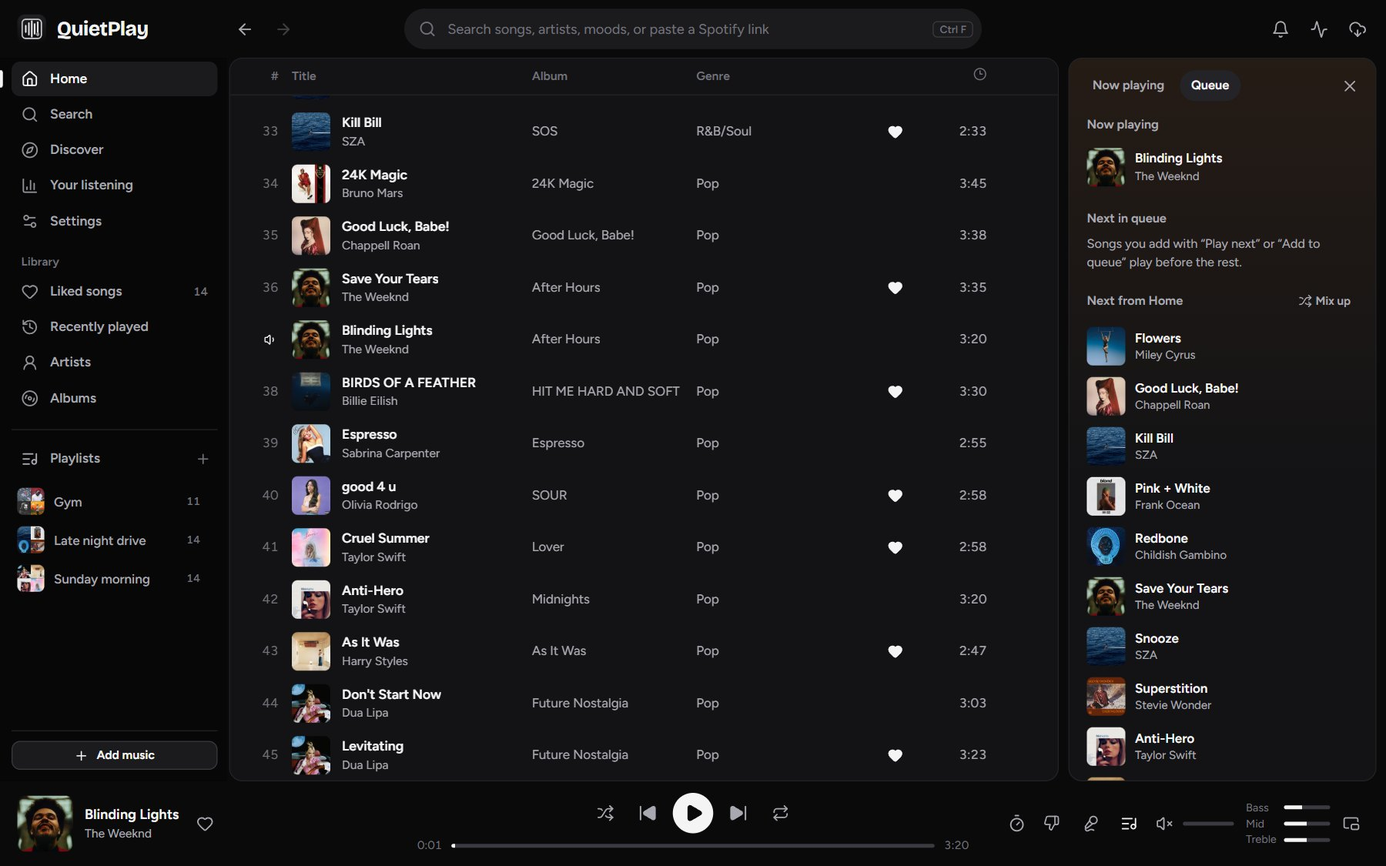
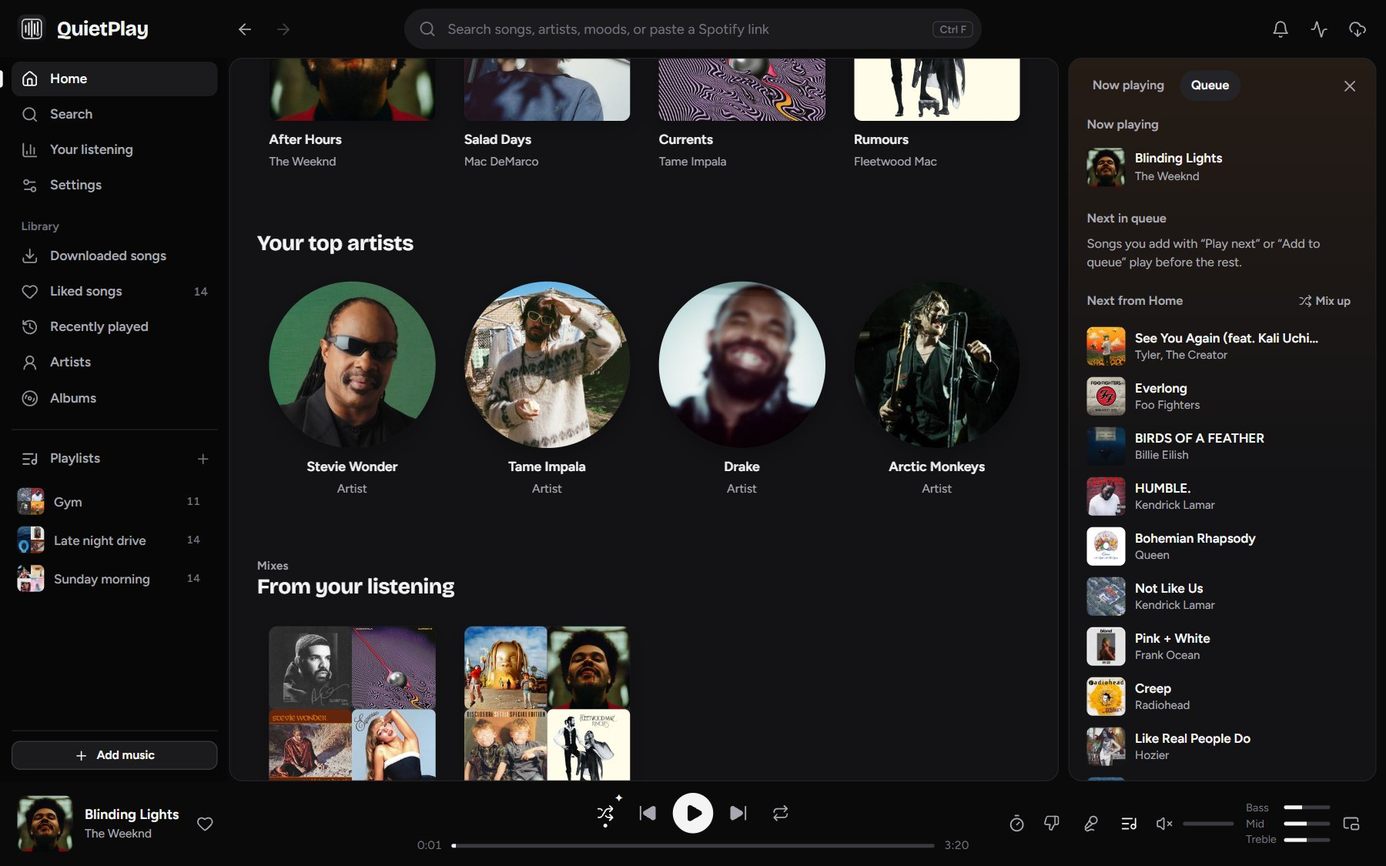
QuietPlay 2.2.31: one Home with far more music, Downloaded songs, Smart shuffle

diff --git a/USER_GUIDE.md b/USER_GUIDE.md
@@ -2,14 +2,14 @@
 
 [QuietPlay](README.md) | [FAQ](FAQ.md) | [Downloads](https://github.com/cooperwwwwww/QuietPlay-downloads/releases)
 
-This guide is for **QuietPlay 2.2.30** on Windows. Sections marked in development
+This guide is for **QuietPlay 2.2.31** on Windows. Sections marked in development
 describe upcoming features, not the current download.
 
 ## Jump to a Topic
 
 [Install and open](#install-and-open) · [Your data](#your-data-on-this-pc) ·
 [Add music](#add-existing-music) · [Find and play](#find-and-play) ·
-[Discover and radio](#discover-radio-and-autoplay) · [Online music](#online-music-artists-and-charts) · [Taste from other apps](#bring-your-taste-from-other-apps) · [Your listening](#your-listening) ·
+[Mixes and radio](#mixes-radio-and-autoplay) · [Online music](#online-music-artists-and-charts) · [Taste from other apps](#bring-your-taste-from-other-apps) · [Your listening](#your-listening) ·
 [Playlists](#playlists) · [Library care](#library-care) · [Lyrics](#lyrics) ·
 [Search and download](#search-and-download-music) · [Navidrome](#navidrome-add-on) · [Audio and mini player](#audio-and-mini-player) ·
 [OBS](#obs) · [Settings](#settings) · [Shortcuts](#keyboard-shortcuts) · [Updates and help](#updates-and-help)
@@ -63,8 +63,12 @@ Untagged files named like `Artist - Title.mp3` are read as artist and title.
 
 ## Find and Play
 
-- **Home** (from 2.2.27) works like Spotify's. It starts with a greeting and four chips: **All**,
-  **Music for you**, **New music** and **Your songs** (your full song list). Below are quick-access tiles
+- **Home** (from 2.2.27) works like Spotify's. From 2.2.31 it also has everything that was on Discover
+  (your listening stats, every mix and your library's genres) and about ten times more recommendations:
+  playlists with each of your top artists, for your genres, for 20 moods and activities and for every
+  decade, the most popular playlists, and a radio of new songs for each of your top artists. Rows further
+  down load as you scroll to them. It starts with a greeting and filters: **All**, **Made for you**,
+  **Playlists** and **New music**, plus a **Downloaded songs** button. Below are quick-access tiles
   for Liked Songs, your playlists and mixes (point at one and press play), then rows of cards:
   **Made for you**, **Recommended for today** (about 100 songs you don't have yet), **Jump back in**,
   **Your top artists**, **More from artists you love**, **Because you listen to…**, **More like…**,
@@ -72,13 +76,12 @@ Untagged files named like `Artist - Title.mp3` are read as artist and title.
   playlists**, **Top albums**, **Popular artists** and **Your favorite albums**. Click a song card to hear
   a preview, and use the arrows to see more of a row. The personal rows are prepared in the background
   after QuietPlay opens and refreshed every few hours. QuietPlay remembers the chip you picked.
-- **Made for you** on Discover still has **Mixes**, **New songs** and **Playlists**.
-  Click a recommended song to preview it, or use its download button. Open a
-  recommended playlist to see every song, preview, download a song, or
-  **Download & save** the full mix. **See all** opens Discover, and the refresh
-  button fetches new picks. Recommendations stay loaded when you switch tabs.
-- **Your songs** below the box lists your whole library with **Play** and
-  **Shuffle**. Filter by genre and sort by recently added, title, artist and more.
+- Click a recommended song to preview it. Open a recommended playlist (marked **New**) to see every song,
+  preview, download a song, or **Download & save** the full mix. Recommendations stay loaded when you
+  switch tabs.
+- **Downloaded songs** (from 2.2.31, in the sidebar, or **Alt+D**) lists every song you've downloaded with
+  **Play** and **Shuffle**. Filter by genre and sort by recently added, title, artist and more. Opening a
+  genre under **Your genres** on Home shows its songs here.
 - **Search** (Ctrl+F or the search bar) finds songs, artists, albums and
   playlists, ranks the best matches first, ignores accents and punctuation,
   and shows similar spellings when nothing matches exactly.
@@ -99,7 +102,7 @@ Untagged files named like `Artist - Title.mp3` are read as artist and title.
   for genres, a few artists, how many new artists to mix in and whether to skip explicit songs (skip any step), then Home shows songs
   and playlists to start with, each with **Save & download**. Retake the quiz
   from the **Search** page, or hide Starter picks with the **×** on Home.
-- Recommended playlists on Home and Discover have **Save & download**, which
+- Recommended playlists on Home have **Save & download**, which
   adds the playlist to your playlists and downloads every song into it.
 - **Ctrl+K** opens quick play: type and press Enter to play a song or run a command.
 - Right-click any song for Play next, Add to queue, Add to playlist, Song
@@ -109,12 +112,12 @@ Untagged files named like `Artist - Title.mp3` are read as artist and title.
 - **Recently played** has a Songs view and a **History** view of every play by
   day, showing what you finished and what you skipped.
 
-## Discover, Radio and Autoplay
+## Mixes, Radio and Autoplay
 
 Your listening signals and rankings are calculated on your PC. Optional catalog
 lookups supply songs and related artists for online recommendations.
 
-- **Discover** has Made for you, a time-of-day mix, On repeat, Because you
+- **Home** (Discover until 2.2.31) has Made for you, a time-of-day mix, On repeat, Because you
   played…, Forgotten favorites, Deep cuts, New to you, Never skipped, Recently
   added, genre mixes and your top artist's essentials. Mixes refresh daily.
   Save any mix as a playlist.
@@ -133,19 +136,19 @@ lookups supply songs and related artists for online recommendations.
 - **Shuffle** plays recently heard songs last and avoids the same artist twice in a row. From 2.2.29
   shuffle and autoplay don't pick a song you heard in the last few hours, already played this session or
   skipped this session, while there's something else to play.
-- **Smart shuffle** (from 2.2.29): press the shuffle button a second time (Off → Shuffle → Smart shuffle,
-  marked ✦; a third press turns it off). It learns as you listen: a song you skip doesn't come back this
+- **Smart shuffle** (from 2.2.29): from 2.2.31 it is the only shuffle and it's on by default; the shuffle
+  button (marked ✦) and **S** turn it on and off, and off stays off. It learns as you listen: a song you skip doesn't come back this
   session, each skip makes that genre and artist less likely for about an hour and each song you finish
   makes them more likely again, what's coming up reorders when you skip, and after every few songs it
   mixes in a song from your library that fits. Albums and playlists played in order are not changed.
 - **Dislike** keeps a song out of shuffle, autoplay and mixes. **Often skipped**
-  in Discover lists songs you keep skipping.
+  on Home lists songs you keep skipping.
 
 ### Personalized Playlists
 
 Available in QuietPlay **2.2.1 and later**; also on Home since **2.2.3**.
 
-1. Open **Home → Made for you → Playlists for you**, or **Discover → Playlists picked for you**. QuietPlay ranks recommendations
+1. Open **Home → Made for you → Playlists for you**, or the **Playlists** filter on Home. QuietPlay ranks recommendations
    from your plays, completed listens, likes, recent listening, skips and
    dislikes, then combines them with related-artist catalog results.
 2. Choose a playlist to see its complete list of **50–60 different songs**.
@@ -424,7 +427,7 @@ Showing a song title doesn't grant permission to broadcast the recording.
 ### Overlay Customization (Unreleased)
 
 The following controls are implemented in the development build and are **not
-in the current 2.2.30 installer**. The existing download still has the basic
+in the current 2.2.31 installer**. The existing download still has the basic
 overlay options in Streaming settings.
 
 Open **Settings → Streaming → Overlay appearance** in the upcoming build:
@@ -461,7 +464,7 @@ Integrations, Updates and Advanced (Gaming Mode, caches, diagnostics).
 | Left / Right | Back or ahead 5 seconds |
 | Ctrl+Up / Ctrl+Down | Volume |
 | L | Like the playing song |
-| S | Shuffle, then Smart shuffle, then off |
+| S | Smart shuffle on or off |
 | R | Repeat all, repeat this song, off |
 | M | Mute or unmute |
 | Ctrl+K | Quick play |
@@ -509,18 +512,18 @@ Backups are retained for the two most recent update transactions.
 The release signature is separate from Windows Authenticode; QuietPlay is still
 not Windows code-signed, and Windows security warnings and blocks still apply.
 
-### Updating to 2.2.30
+### Updating to 2.2.31
 
-Use the update screen above. From **2.2.28 or 2.2.29** the download is about **8.2 MB**, from **2.2.24 to 2.2.27** about **25.2 MB**,
+Use the update screen above. From **2.2.28 to 2.2.30** the download is about **8.2 MB**, from **2.2.24 to 2.2.27** about **25.2 MB**,
 and from **2.2.2 to 2.2.23** about **40.4 MB**.
 A bar shows the check, the download, verification and, in the updater window, each file as it is installed. It reuses the unchanged runtime
 files, so no full installer is needed for a healthy installation.
 
 ### First Upgrade From an Older Version
 
-- **2.2.0:** download the official **2.2.30 Windows Setup** and run it over the
+- **2.2.0:** download the official **2.2.31 Windows Setup** and run it over the
   existing installation once. Do not uninstall first. This enables file updates.
-- **2.2.1:** download **QuietPlayUpdater.exe** from the official **2.2.30 release**,
+- **2.2.1:** download **QuietPlayUpdater.exe** from the official **2.2.31 release**,
   run it, choose **Download changed files**, then **Update and restart**. This
   transfers about 40 MB instead of the full setup. Full setup is also available.
 

diff --git a/README.md b/README.md
@@ -8,9 +8,9 @@
 
 No account. No subscription. Nothing you play leaves your computer.
 
-<a id="get-quietplay"></a><a href="https://github.com/cooperwwwwww/QuietPlay-downloads/releases/download/v2.2.30/QuietPlay-2.2.30-Windows-Setup.exe"><img src="assets/download-windows.svg" alt="Download QuietPlay 2.2.30 for Windows" width="340"></a>
+<a id="get-quietplay"></a><a href="https://github.com/cooperwwwwww/QuietPlay-downloads/releases/download/v2.2.31/QuietPlay-2.2.31-Windows-Setup.exe"><img src="assets/download-windows.svg" alt="Download QuietPlay 2.2.31 for Windows" width="340"></a>
 
-Version 2.2.30 · [What's new](#new-in-2230) · [Help](FAQ.md) · [Report a problem](https://github.com/cooperwwwwww/QuietPlay-downloads/issues/new?template=bug_report.yml)
+Version 2.2.31 · [What's new](#new-in-2231) · [Help](FAQ.md) · [Report a problem](https://github.com/cooperwwwwww/QuietPlay-downloads/issues/new?template=bug_report.yml)
 
 </div>
 
@@ -18,7 +18,7 @@ Version 2.2.30 · [What's new](#new-in-2230) · [Help](FAQ.md) · [Report a prob
 
 <a id="install-quietplay"></a>
 
-1. **Click the button above.** Your browser downloads `QuietPlay-2.2.30-Windows-Setup.exe`.
+1. **Click the button above.** Your browser downloads `QuietPlay-2.2.31-Windows-Setup.exe`.
 2. **Open the file.** If Windows says *"Windows protected your PC"*, choose **More info**, check the
    file name, then **Run anyway**. This shows up because QuietPlay is new and not code-signed yet;
    [why this happens](#windows-security-notice).
@@ -33,14 +33,14 @@ the app. One click, and your music, playlists and settings stay in place.
 | Your music, mixes and recommendations | Moods made from your library |
 | --- | --- |
 | ![Home rows: Because you listen to, with songs by similar artists](assets/quietplay-home-playlists.jpg) | ![The Party mood: your songs that fit, with editors' playlists and new songs](assets/quietplay-mood.jpg) |
-| **Discover new music** | **Full playlists you can save and download** |
-| ![Discover: playlists picked from what you play](assets/quietplay-discover.jpg) | ![A 60-song recommended playlist with previews and Download and save](assets/quietplay-playlist.jpg) |
+| **More playlists than ever on Home** | **Full playlists you can save and download** |
+| ![Home: playlists with your top artists, for your genres, moods and decades](assets/quietplay-discover.jpg) | ![A 60-song recommended playlist with previews and Download and save](assets/quietplay-playlist.jpg) |
 | **Your listening** | **Search, moods and quick picks** |
 | ![Your listening: time, top songs and top artists](assets/quietplay-stats.jpg) | ![Search page with moods and quick picks](assets/quietplay-search.jpg) |
 | **Artist pages with a bio** | **Charts and new music** |
 | ![An artist page: popular songs, discography and Follow](assets/quietplay-artist.jpg) | ![Charts: New and notable and the Top 50](assets/quietplay-charts.jpg) |
 
-*Screenshots of QuietPlay 2.2.30 with a demo library of well-known songs.*
+*Screenshots of QuietPlay 2.2.31 with a demo library of well-known songs.*
 
 ## What it does
 
@@ -61,16 +61,17 @@ the app. One click, and your music, playlists and settings stay in place.
 
 Only download music you have permission to save.
 
-## New in 2.2.30
+## New in 2.2.31
 
-- **A better Up next:** long names no longer push it past the panel; right-click a song for its menu,
-  remove one with **×**, see song lengths, and open the full queue. Smart shuffle marks the songs it
-  added and shows what it's playing less of.
-- **New keys:** **S** shuffle and Smart shuffle, **R** repeat, **M** mute.
+- **Home and Discover are one page,** with about ten times more to explore: playlists for your top
+  artists, your genres, moods and every decade, and a radio of new songs for each of your top artists.
+  [How to](USER_GUIDE.md#find-and-play)
+- **Downloaded songs:** a new tab with every song you've downloaded (**Alt+D**).
+- **Smart shuffle is the shuffle,** on by default; the button and **S** turn it on and off.
 
-### New in 2.2.29
+### New in 2.2.30
 
-- **Smart shuffle** and far fewer repeats in shuffle and autoplay.
+- **A better Up next** and new keys: **S**, **R** and **M**.
 
 ### New in 2.2.20
 
@@ -90,14 +91,14 @@ Only download music you have permission to save.
 
 ## Windows security notice
 
-QuietPlay 2.2.30 is not Windows code-signed yet, so Microsoft Defender SmartScreen may show
+QuietPlay 2.2.31 is not Windows code-signed yet, so Microsoft Defender SmartScreen may show
 **Windows protected your PC**. That warning means Windows doesn't recognize the app yet; it doesn't
 say the file is harmful.
 
 ![How to check the Windows warning: More info, check the file name, then Run anyway](assets/windows-security-guide.svg)
 
-1. Make sure you downloaded `QuietPlay-2.2.30-Windows-Setup.exe` from
-   [the official release](https://github.com/cooperwwwwww/QuietPlay-downloads/releases/tag/v2.2.30). You can
+1. Make sure you downloaded `QuietPlay-2.2.31-Windows-Setup.exe` from
+   [the official release](https://github.com/cooperwwwwww/QuietPlay-downloads/releases/tag/v2.2.31). You can
    [compare its checksum](FAQ.md#check-the-downloaded-file).
 2. Choose **More info**, check the file name, then **Run anyway** only if Windows offers it.
 3. If there is no **Run anyway**, or you see Smart App Control or a malware warning, stop and
@@ -112,7 +113,7 @@ replace the app files that changed (usually a few megabytes), are signed and che
 are applied, and restore the previous version if anything goes wrong.
 
 On a version older than 2.2.16? Open **Settings → Updates → Check for updates**. Version 2.2.1 can
-run [QuietPlayUpdater.exe](https://github.com/cooperwwwwww/QuietPlay-downloads/releases/download/v2.2.30/QuietPlayUpdater.exe); version
+run [QuietPlayUpdater.exe](https://github.com/cooperwwwwww/QuietPlay-downloads/releases/download/v2.2.31/QuietPlayUpdater.exe); version
 2.2.0 needs the installer once. [All versions](https://github.com/cooperwwwwww/QuietPlay-downloads/releases)
 
 ## Requirements

diff --git a/FAQ.md b/FAQ.md
@@ -36,15 +36,15 @@ not turn off Windows security. Code signing is planned.
 ## Windows Protected Your PC
 
 This is usually a **Microsoft Defender SmartScreen** reputation warning.
-QuietPlay 2.2.30 is not Windows code-signed. The warning is a reason to inspect
+QuietPlay 2.2.31 is not Windows code-signed. The warning is a reason to inspect
 the file; it is not proof that the file is safe or malicious.
 
-![Illustrated two-step Windows warning guide for the QuietPlay 2.2.30 installer](assets/windows-security-guide.svg)
+![Illustrated two-step Windows warning guide for the QuietPlay 2.2.31 installer](assets/windows-security-guide.svg)
 
 ### If You See More Info
 
-1. Confirm you intentionally downloaded **QuietPlay-2.2.30-Windows-Setup.exe**
-   from [the official 2.2.30 release](https://github.com/cooperwwwwww/QuietPlay-downloads/releases/tag/v2.2.30).
+1. Confirm you intentionally downloaded **QuietPlay-2.2.31-Windows-Setup.exe**
+   from [the official 2.2.31 release](https://github.com/cooperwwwwww/QuietPlay-downloads/releases/tag/v2.2.31).
    Compare its SHA-256 with **SHA256SUMS.txt** on that release if you want to
    verify the file's identity. A checksum is not a safety guarantee.
 2. Select **More info**, then check the app filename and publisher. This build
@@ -142,7 +142,7 @@ For a specific destination playlist, use the download panel (cloud icon at the
 top). Individual tracks can fail; completed downloads are kept.
 [Download guide](USER_GUIDE.md#download-a-complete-playlist-or-album).
 
-Discover also offers full **50–60-song personalized playlists** when enough
+Home also offers full **50–60-song personalized playlists** when enough
 matches are available, with **Download & save** for the whole playlist.
 [Personalized playlist guide](USER_GUIDE.md#personalized-playlists).
 
@@ -175,7 +175,7 @@ Showing a song title does not grant permission to broadcast the recording.
 ## Can I Customize the OBS Overlay?
 
 The current release has basic overlay options in Streaming settings. A larger
-appearance editor is implemented in development, **not in the 2.2.30 download**:
+appearance editor is implemented in development, **not in the 2.2.31 download**:
 six color pickers, transparency, fonts, artwork placement and sizes, borders,
 visible details, presets, reset and a live preview. It saves locally and does
 not change the audio route or your OBS scene.
@@ -186,7 +186,7 @@ not change the audio route or your OBS scene.
 On your PC, from your own listening: what you play, finish, skip, like and
 dislike, which songs you play one after another, and the time of day you
 listen. Nothing about your listening is uploaded. Dislike a song, or review
-**Often skipped** in Discover, to steer them.
+**Often skipped** on Home, to steer them.
 
 Online recommendations send the names of your most-played artists to Deezer's
 and Apple's public catalogs to find new songs and related artists. Ranking and
@@ -214,8 +214,8 @@ restart** and approve. The official updater downloads a matching changed-file
 package, verifies its signed manifest and hashes, backs up the old files and
 checks startup. Failed or interrupted updates restore the previous app.
 
-**2.2.0** needs one manual 2.2.30 setup to gain this updater. **2.2.1** can instead
-run `QuietPlayUpdater.exe` from the official 2.2.30 release to download about
+**2.2.0** needs one manual 2.2.31 setup to gain this updater. **2.2.1** can instead
+run `QuietPlayUpdater.exe` from the official 2.2.31 release to download about
 40 MB of changed files. No uninstall is needed. New PCs and damaged or unsupported
 installations can use the full setup. Windows security checks remain enabled.
 
@@ -351,4 +351,4 @@ Yes. Home starts with **Made for you**, with tabs for your local mixes, new
 songs and full 50–60-song recommended playlists, and your songs right below.
 Click a recommended song to preview it, or use its download button. Open a
 playlist to see all songs and download one song or download and save the full
-mix. **See all** opens Discover. Recommendations stay loaded when you switch tabs.
+mix. Since 2.2.31 Discover is part of Home. Recommendations stay loaded when you switch tabs.

diff --git a/ROADMAP.md b/ROADMAP.md
@@ -71,7 +71,7 @@ for listener ideas. Versioned release notes are the source of truth for what
 has actually shipped.
 
 
-Version **2.2.30** improves Up next and adds S, R and M keys. Version **2.2.29** added Smart shuffle and avoids repeats. Version **2.2.28** downloads original versions instead of clean edits. Version **2.2.27** brought a Spotify-style Home, About the artist, genres and more music sources. Version **2.2.26** added online music: artists, albums, playlists, charts, Release Radar, notifications and offline/online modes. Version **2.2.25** was smoother, with transitions, and skips songs you have in recommendations. Version **2.2.24** brought one-click updates and smooth audio during refreshes. Version **2.2.23** imported your music the way Spotify does, with TuneMyMusic. Version **2.2.22** learned your taste from other apps and recommends about twice as much. Version **2.2.21** showed mixes in a grid. Version **2.2.20** added one-click updates and a faster app. Version **2.2.19** added a taste quiz and starter picks for new listeners. Version **2.2.18** polished search and added mood playlists. Version **2.2.17** added mood mixes and a new search. Version **2.2.16** fixed update progress bars and artist names. Version **2.2.15** fixed Next stopping with "End of the list" offline. Version **2.2.14** made QuietPlay work properly offline and removed audio crackling. Version **2.2.13** gave Navidrome its own Settings tab and automatic reconnect. Version **2.2.12** added the optional Navidrome add-on. Version **2.2.11** found more cover art. Version **2.2.9** added Retry for failed downloads and a collapsible Made for you. Version **2.2.8** follows the sound device your PC is using. Version **2.2.7** retried failed downloads on other sources and keeps working
+Version **2.2.31** merges Discover into Home with far more recommendations, adds a Downloaded songs tab and makes Smart shuffle the shuffle. Version **2.2.30** improved Up next and added S, R and M keys. Version **2.2.29** added Smart shuffle and avoids repeats. Version **2.2.28** downloads original versions instead of clean edits. Version **2.2.27** brought a Spotify-style Home, About the artist, genres and more music sources. Version **2.2.26** added online music: artists, albums, playlists, charts, Release Radar, notifications and offline/online modes. Version **2.2.25** was smoother, with transitions, and skips songs you have in recommendations. Version **2.2.24** brought one-click updates and smooth audio during refreshes. Version **2.2.23** imported your music the way Spotify does, with TuneMyMusic. Version **2.2.22** learned your taste from other apps and recommends about twice as much. Version **2.2.21** showed mixes in a grid. Version **2.2.20** added one-click updates and a faster app. Version **2.2.19** added a taste quiz and starter picks for new listeners. Version **2.2.18** polished search and added mood playlists. Version **2.2.17** added mood mixes and a new search. Version **2.2.16** fixed update progress bars and artist names. Version **2.2.15** fixed Next stopping with "End of the list" offline. Version **2.2.14** made QuietPlay work properly offline and removed audio crackling. Version **2.2.13** gave Navidrome its own Settings tab and automatic reconnect. Version **2.2.12** added the optional Navidrome add-on. Version **2.2.11** found more cover art. Version **2.2.9** added Retry for failed downloads and a collapsible Made for you. Version **2.2.8** follows the sound device your PC is using. Version **2.2.7** retried failed downloads on other sources and keeps working
 when Spotify is unavailable. Version **2.2.4** brought your mixes, new songs and full 50–60-song playlists
 together in one Made for you box on Home, keeps recommendations loaded between
 tabs, fixes recommended playlist downloads and redesigns Downloads and updates.

diff --git a/RELEASE_NOTES.md b/RELEASE_NOTES.md
@@ -1,3 +1,20 @@
+# QuietPlay 2.2.31
+
+QuietPlay 2.2.31 puts Home and Discover on one page with far more music to explore, adds a Downloaded songs tab, and makes Smart shuffle the shuffle.
+
+- **One Home, about ten times more to explore:** Discover's listening stats, every mix and your library's genres are now on Home, along with playlists with each of your top artists, playlists for your genres, for 20 moods and activities and for every decade, the most popular playlists, and a radio of new songs for each of your top artists. Rows further down load as you scroll. Filter with **All**, **Made for you**, **Playlists** and **New music**.
+- **Downloaded songs:** a new tab in the sidebar (or **Alt+D**) with every song you've downloaded, with **Play**, **Shuffle**, a genre filter and sorting.
+- **Smart shuffle is the shuffle:** it's on by default, and the shuffle button and **S** simply turn it on and off. If you turn it off, it stays off.
+- **Fixed:** on narrow windows the player bar squeezed the song name to a few letters; your listening stats now always sit in one even row.
+
+**Already on 2.2.16 to 2.2.30:** the **Update now** notice above the player does it in one click, or open **Settings → Updates → Check for updates** (about **8.2 MB** from 2.2.28 to 2.2.30, **25.2 MB** from 2.2.24 to 2.2.27, **40.4 MB** from 2.2.16 to 2.2.23). **On 2.2.7 to 2.2.15:** the same steps (about **40.4 MB**). **On 2.2.2, 2.2.3 or 2.2.4:** the same steps, with **Download changed files** (about **40.4 MB**). Your music, library, playlists and settings stay in place.
+
+**On 2.2.1:** run `QuietPlayUpdater.exe` from this release for a direct changed-file upgrade of about **40.5 MB**. **On 2.2.0:** install `QuietPlay-2.2.31-Windows-Setup.exe` once over the existing app to enable file updates. Full setup is available for new PCs and repairs.
+
+Catalog data comes from Deezer's public catalog and Apple's iTunes Search; more search results come from Audius and Bandcamp; artist bios come from Wikipedia (CC BY-SA) and link to their article. Windows 10/11, 64-bit. Official release manifests are signed and every changed file's SHA-256 is checked. QuietPlay is still not Windows Authenticode-signed, so Windows may show a SmartScreen warning; see the [Windows security guide](https://github.com/cooperwwwwww/QuietPlay-downloads/blob/main/FAQ.md#windows-protected-your-pc). Verify downloads with `SHA256SUMS.txt`. Only download music you have permission to save. The OBS appearance editor remains unreleased.
+
+---
+
 # QuietPlay 2.2.30
 
 QuietPlay 2.2.30 fixes the Up next card, makes it more useful, and adds keyboard shortcuts for shuffle, repeat and mute.

diff --git a/CHANGELOG.md b/CHANGELOG.md
@@ -2,7 +2,7 @@
 
 ## Unreleased - OBS Customization
 
-These features are not included in 2.2.30.
+These features are not included in 2.2.31.
 
 ### OBS Overlay Appearance
 
@@ -17,6 +17,19 @@ These features are not included in 2.2.30.
 - A sandboxed preview using the actual OBS renderer, even when the overlay
   server is off. Small browser sources scale the complete card instead of
   clipping its text. Existing saved colors and visibility choices are preserved.
+
+## 2.2.31 - One Home, Far More Music
+
+Released November 21, 2026 for Windows 10/11 (64-bit).
+
+- Home and Discover merged: listening stats, every mix and library genres moved to Home.
+- About ten times more recommendations: playlists for top artists, library genres, 20 moods and every
+  decade, the most popular playlists, and a radio of new songs for each top artist. Rows load on scroll.
+- New Downloaded songs tab (Alt+D) with Play/Shuffle, genre filter and sort.
+- Smart shuffle is the only shuffle and on by default; the button and S turn it on and off.
+- Fixed: the player bar squeezed the song name on narrow windows; listening stats wrapped unevenly.
+- Signed changed-file packages support direct upgrades from 2.2.1 to 2.2.4,
+  2.2.7 to 2.2.9, and 2.2.11 to 2.2.30.
 
 ## 2.2.30 - A Better Up Next
 

diff --git a/PLATFORMS.md b/PLATFORMS.md
@@ -2,12 +2,12 @@
 
 [QuietPlay](README.md) | [Downloads](README.md#get-quietplay) | [User guide](USER_GUIDE.md)
 
-**QuietPlay 2.2.30 is a Windows app.** Mac, Linux and Chromebook users can keep
+**QuietPlay 2.2.31 is a Windows app.** Mac, Linux and Chromebook users can keep
 using the experimental **1.54.1 Beta** packages from its
 [release page](https://github.com/cooperwwwwww/QuietPlay-downloads/releases/tag/v1.54.1-development).
 Those packages have the previous interface and are not updated to 2.x.
 
-## Windows (QuietPlay 2.2.30)
+## Windows (QuietPlay 2.2.31)
 
 Windows 10 or 11, Intel/AMD 64-bit, with the Microsoft Edge WebView2 Runtime
 (included with Windows 11; setup installs it when missing). Use
@@ -72,7 +72,7 @@ hardware verification. [Google's file-sharing guide](https://support.google.com/
 
 ## Feature Differences
 
-| Feature | Windows (2.2.30) | Experimental Mac / Linux (1.54.1 Beta) |
+| Feature | Windows (2.2.31) | Experimental Mac / Linux (1.54.1 Beta) |
 | --- | --- | --- |
 | Local music, playlists, lyrics, live EQ and real-audio visualizer | Available | Included in native build targets |
 | In-app search and optional spotDL downloads | Bundled | Native bundled companion; provider availability can vary |

diff --git a/OPTIONAL_DRIVERS.md b/OPTIONAL_DRIVERS.md
@@ -2,9 +2,9 @@
 
 [QuietPlay downloads](README.md#get-quietplay) | [User guide](USER_GUIDE.md) | [FAQ](FAQ.md)
 
-## Install QuietPlay 2.2.30
+## Install QuietPlay 2.2.31
 
-Download **QuietPlay-2.2.30-Windows-Setup.exe** from the
+Download **QuietPlay-2.2.31-Windows-Setup.exe** from the
 [official release](https://github.com/cooperwwwwww/QuietPlay-downloads/releases/latest)
 and run it, over the existing app if you already have one. Version 2.2.1 and
 later can also update from **Settings → Updates** without the full installer. Setup includes QuietPlay, its Python runtime, playback
